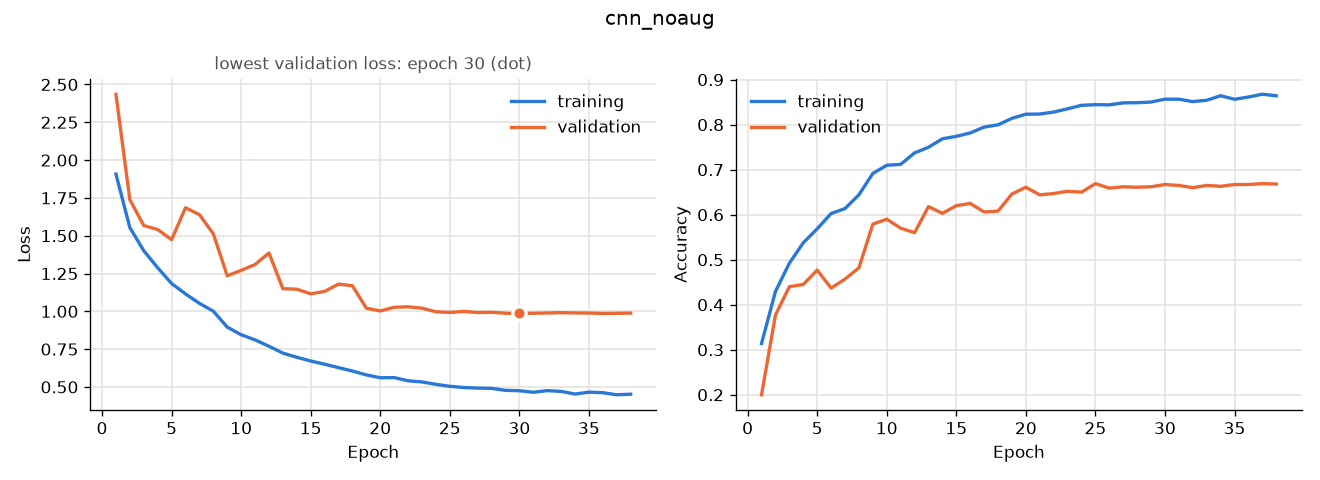
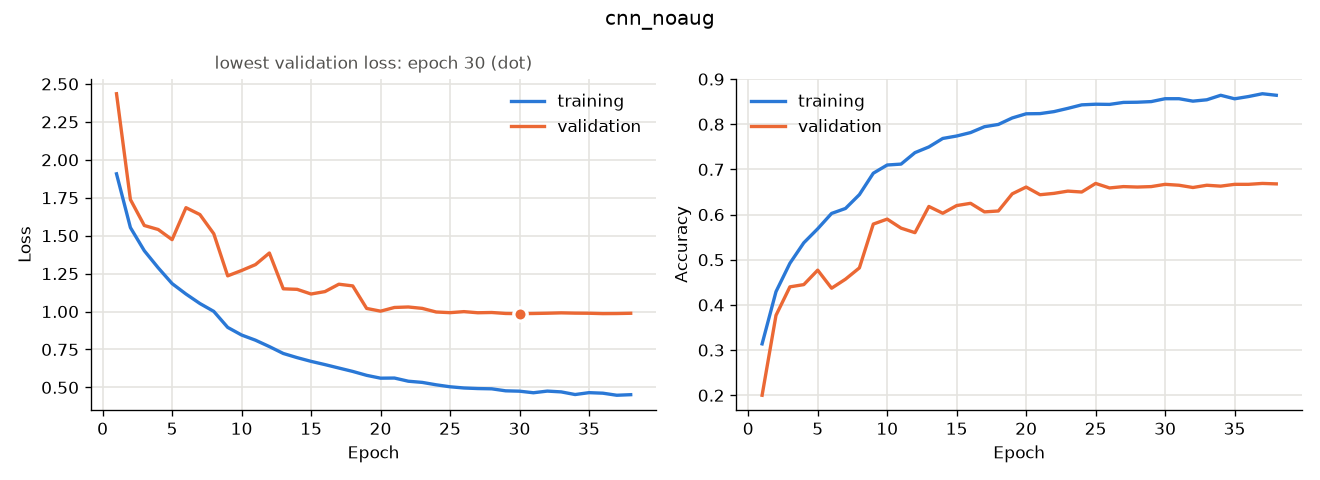
feat: add evaluation

diff --git a/main.py b/main.py
@@ -2,6 +2,7 @@ import numpy as np
 
 from config import LEARNING_RATE, FT_LAST_LAYERS, FT_LEARNING_RATE
 from data import load_splits
+from evaluate import evaluate
 from models import build_cnn, build_transfer, enable_fine_tuning
 from train import reset, train
 
@@ -10,26 +11,29 @@ X_train, X_val, X_test, y_train, y_val, y_test = load_splits()
 
 # CNN from scratch
 reset()
-
 model = build_cnn(augment=False)
-
 _, metrics = train("cnn_noaug", model, X_train, y_train, X_val, y_val, LEARNING_RATE)
-
 print(metrics)
+evaluate("cnn_noaug", model, X_test, y_test)
 
 # Frozen backbone of mobilenet_v2
 reset()
 model, backbone = build_transfer(augment=False)
-bef = backbone.weights[0].numpy().copy()
-history, metrics = train("fe_noaug", model, X_train, y_train, X_val, y_val, LEARNING_RATE)
-aft = backbone.weights[0].numpy().copy()
-
-print(f"Is backbone frozen: {np.array_equal(bef, aft)}")
+first_before = backbone.weights[0].numpy().copy()
+_, metrics = train("fe_noaug", model, X_train, y_train, X_val, y_val, LEARNING_RATE)
+print(metrics)
+print(f"FE - first layer unchanged (frozen): {np.array_equal(first_before, backbone.weights[0].numpy())}")
+evaluate("fe_noaug", model, X_test, y_test)
 
 # Unfreezing some layers for backbone of mobilenet_v2
-print(f"now unfreezing last {FT_LAST_LAYERS} layers of backbone")
+print(f"Unfreezing the last {FT_LAST_LAYERS} layers of the backbone")
 enable_fine_tuning(backbone, FT_LAST_LAYERS)
-bef = backbone.get_layer("Conv_1").weights[0].numpy().copy()
-train("ft_noaug", model, X_train, y_train, X_val, y_val, FT_LEARNING_RATE, previous_time_s=metrics["total_time_s"])
-aft = backbone.get_layer("Conv_1").weights[0].numpy().copy()
-print(f"Are last {FT_LAST_LAYERS} layers of backbone are not frozen: {not np.array_equal(bef, aft)}")
+first_before = backbone.weights[0].numpy().copy()
+last_before = backbone.get_layer("Conv_1").weights[0].numpy().copy()
+_, ft_metrics = train("ft_noaug", model, X_train, y_train, X_val, y_val, FT_LEARNING_RATE,
+                      previous_time_s=metrics["total_time_s"])
+print(ft_metrics)
+print(f"FT - first layer unchanged (frozen): {np.array_equal(first_before, backbone.weights[0].numpy())}")
+print(f"FT - Conv_1 changed (fine-tuned): "
+      f"{not np.array_equal(last_before, backbone.get_layer('Conv_1').weights[0].numpy())}")
+evaluate("ft_noaug", model, X_test, y_test)

diff --git a/evaluate.py b/evaluate.py
@@ -1,0 +1,55 @@
+import json
+import time
+
+import numpy as np
+from sklearn.metrics import accuracy_score, classification_report, f1_score
+
+from config import BATCH_SIZE, CLASS_NAMES, RESULTS_DIR
+from plots import plot_confusion
+
+INFERENCE_REPEATS = 5
+
+
+def measure_inference(model, X):
+    model.predict(X[:BATCH_SIZE], batch_size=BATCH_SIZE, verbose=0)
+    times = []
+    for _ in range(INFERENCE_REPEATS):
+        start = time.perf_counter()
+        model.predict(X, batch_size=BATCH_SIZE, verbose=0)
+        times.append(time.perf_counter() - start)
+    return float(np.median(times))
+
+
+def evaluate(name, model, X_test, y_test):
+    model_folder = RESULTS_DIR / name
+    model_folder.mkdir(parents=True, exist_ok=True)
+
+    y_pred = model.predict(X_test, batch_size=BATCH_SIZE, verbose=0).argmax(axis=1)
+
+    labels = list(range(len(CLASS_NAMES)))
+    per_class_f1 = f1_score(y_test, y_pred, labels=labels, average=None)
+    worst = int(np.argmin(per_class_f1))
+
+    report = classification_report(y_test, y_pred, labels=labels, target_names=list(CLASS_NAMES), digits=3)
+    (model_folder / "classification_report.txt").write_text(report)
+
+    plot_confusion(y_true=y_test, y_pred=y_pred, title=f"{name}: test set", path=model_folder / "confusion.png")
+
+    inference_s = measure_inference(model, X_test)
+
+    test_metrics = {
+        "name": name,
+        "test_accuracy": float(accuracy_score(y_test, y_pred)),
+        "test_macro_f1": float(f1_score(y_test, y_pred, labels=labels, average="macro")),
+        "worst_class": str(CLASS_NAMES[worst]),
+        "worst_class_f1": float(per_class_f1[worst]),
+        "inference_test_set_s": round(inference_s, 3),
+        "inference_ms_per_image": round(inference_s / len(X_test) * 1000, 4),
+    }
+
+    with open(model_folder / "test_metrics.json", "w") as f:
+        json.dump(test_metrics, f, indent=2)
+
+    print(report)
+    print(test_metrics)
+    return test_metrics
